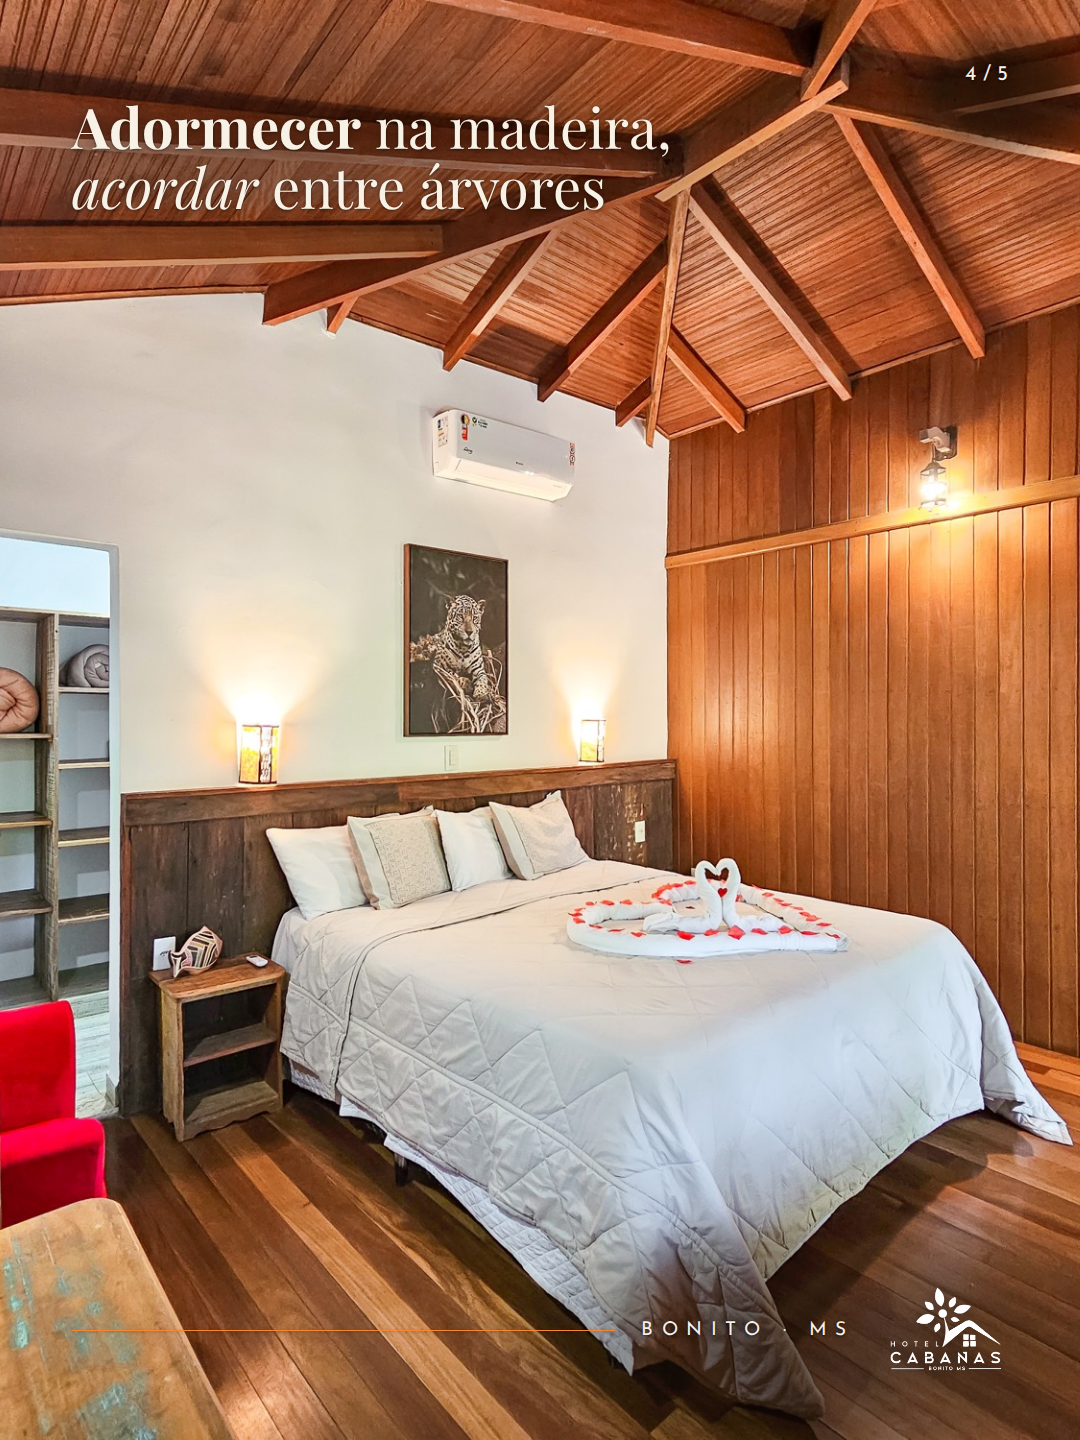
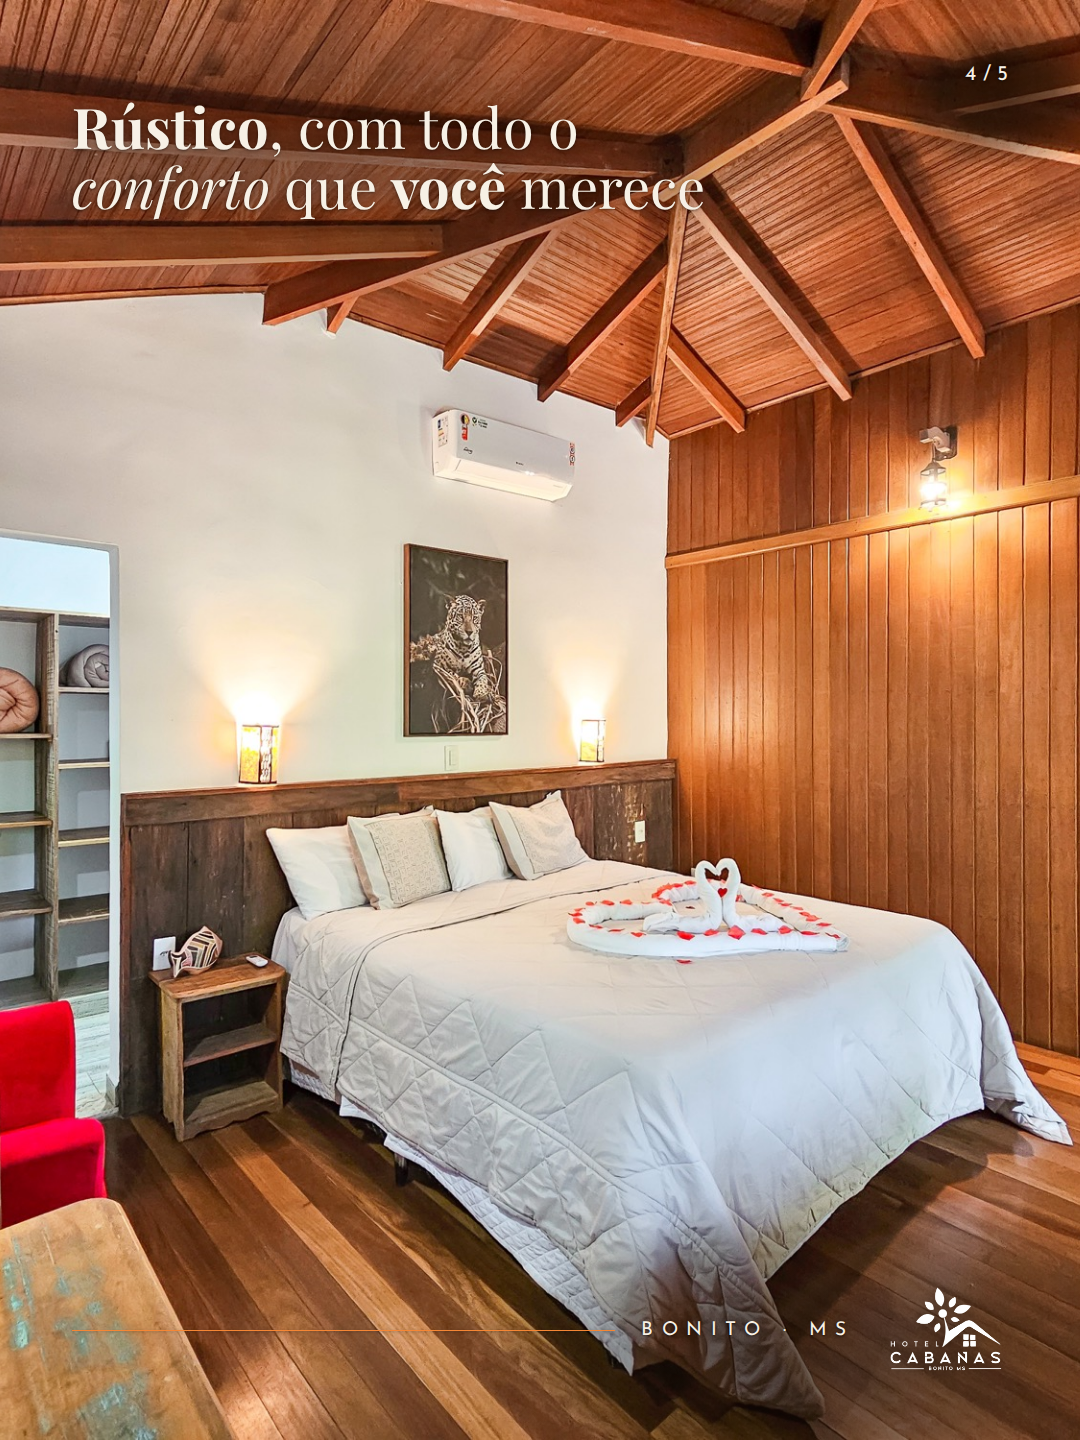
POST 01: textos novos nas telas 4 e 5 (pedido do dono na Central)
Claude-Session: https://claude.ai/code/session_01GffBmxQFJnfaKwiJFV7qgT

Changed region(s): [[0.0611, 0.0625, 0.6417, 0.1562]]

diff --git a/design/pecas/2026-10-instagram/POST-01/peca-caixa-5.html b/design/pecas/2026-10-instagram/POST-01/peca-caixa-5.html
@@ -19,7 +19,7 @@
   <div class="sombra" style="left: 900px; top: 25px; width: 200px; height: 120px; --forca: .6"></div>
   <span class="num-sf">5/5</span>
   <div class="cc" style="--topo: 850px">
-    <div class="cc-caixa"><h1 class="titulo duas">Seu lugar de conexão<br>espera por você</h1></div>
+    <div class="cc-caixa"><h1 class="titulo duas">Seu lugar de conexão<br>com a natureza</h1></div>
     <p class="cc-apoio">Reserve pelo link da bio</p>
   </div>
   <div class="cc-selo base">

diff --git a/design/pecas/2026-10-instagram/POST-01/peca-caixa-4.html b/design/pecas/2026-10-instagram/POST-01/peca-caixa-4.html
@@ -19,7 +19,7 @@
       <img src="../../../../contexto/marca/logo-hotel-cabanas-branco.png" alt="Hotel Cabanas">
       <div class="local"><i class="fio"></i><span>Bonito · MS</span><i class="fio"></i></div>
     </div>
-    <div class="cc-caixa"><h1 class="titulo duas">Adormecer na madeira,<br>acordar entre árvores</h1></div>
+    <div class="cc-caixa"><h1 class="titulo duas">Rústico, com todo o<br>conforto que você merece</h1></div>
   </div>
 </div>
 </body>

diff --git a/design/pecas/2026-10-instagram/POST-01/peca-sem-faixa-4-v2.html b/design/pecas/2026-10-instagram/POST-01/peca-sem-faixa-4-v2.html
@@ -16,7 +16,7 @@
   <div class="sombra" style="left: 880px; top: 20px; width: 240px; height: 150px; --forca: .72"></div>
   <span class="num-sf">4/5</span>
   <div class="bloco-sf cima">
-      <h1 class="titulo"><b>Adormecer</b> na madeira,<br><i>acordar</i> entre árvores</h1>
+      <h1 class="titulo"><b>Rústico</b>, com todo o<br><i>conforto</i> que <b>você</b> merece</h1>
   </div>
   <div class="assin-sf">
     <span class="fio"></span>

diff --git a/design/pecas/2026-10-instagram/POST-01/peca-faixa-4.html b/design/pecas/2026-10-instagram/POST-01/peca-faixa-4.html
@@ -13,7 +13,7 @@
   <img class="foto" src="foto-4.jpg" alt="">
   <div class="rodape faixa">
     <div class="texto">
-      <h1 class="titulo"><b>Adormecer</b> na madeira,<br><i>acordar</i> entre árvores</h1>
+      <h1 class="titulo"><b>Rústico</b>, com todo o<br><i>conforto</i> que <b>você</b> merece</h1>
     </div>
     <div class="marca">
       <span class="num">4/5</span>

diff --git a/design/pecas/2026-10-instagram/POST-01/peca-sem-faixa-5-v2.html b/design/pecas/2026-10-instagram/POST-01/peca-sem-faixa-5-v2.html
@@ -17,7 +17,7 @@
   <div class="bloco-sf baixo">
       <p class="apoio">Reserve pelo link da bio</p>
       <div class="linha"></div>
-      <h1 class="titulo">Seu <b>lugar</b> de <i>conexão</i><br>espera por você</h1>
+      <h1 class="titulo">Seu <b>lugar</b> de <i>conexão</i><br>com a <b>natureza</b></h1>
   </div>
   <div class="assin-sf">
     <span class="fio"></span>

diff --git a/design/pecas/2026-10-instagram/POST-01/peca-faixa-5.html b/design/pecas/2026-10-instagram/POST-01/peca-faixa-5.html
@@ -14,7 +14,7 @@
     <div class="texto">
       <p class="apoio">Reserve pelo link da bio</p>
       <div class="linha"></div>
-      <h1 class="titulo">Seu <b>lugar</b> de <i>conexão</i><br>espera por você</h1>
+      <h1 class="titulo">Seu <b>lugar</b> de <i>conexão</i><br>com a <b>natureza</b></h1>
     </div>
     <div class="marca">
       <span class="num">5/5</span>
